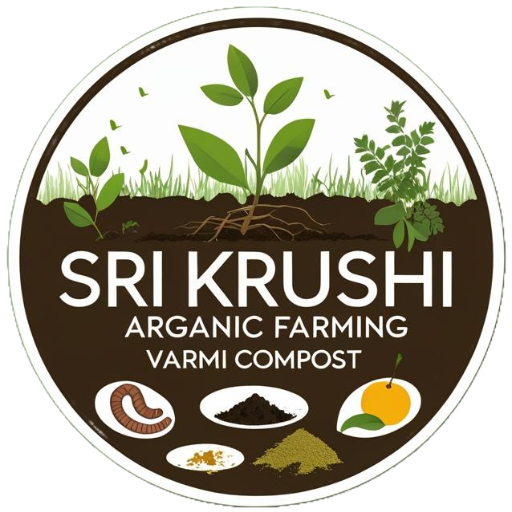
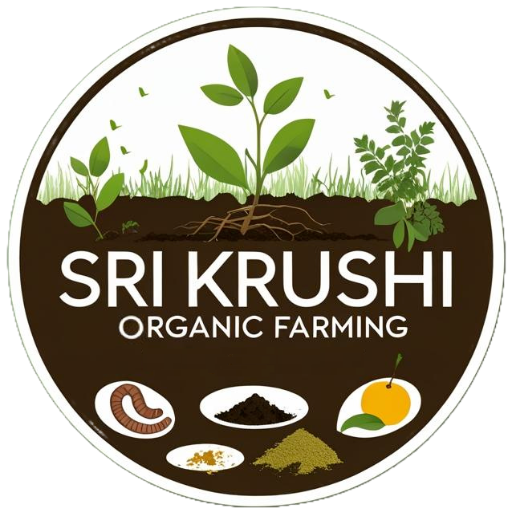
feat!: Refactor spelling and name

Changed region(s): [[0.2812, 0.6562, 0.7188, 0.7188], [0.2188, 0.5938, 0.2812, 0.6875]]

diff --git a/src/Blog.tsx b/src/Blog.tsx
@@ -23,7 +23,7 @@ const blogArticles = [
     "title": "Journey from TSRTC Union Leader to Organic Farming Pioneer: Ch. Pichaiah’s Story",
     image: grandFatherWalking,
     alt: 'Grandfather walking',
-    "content": "Ch. Pichaiah is a retired former secretary of the RTC Employees Union and TSRTC (Telangana State Road Transport Corporation) employee. Originally from Agaram village in Telangana, India. He dedicated over 30 years as a bus driver before returning to his agricultural roots.\n\nWith over 40 years of experience in organic farming, Pichaiah is the founder of Sri Krushi Arganic Varmi Compost. His passion for sustainable agriculture and deep knowledge of organic practices have been key to the venture’s success.\n\nHe is actively involved in all aspects of the business from managing orders and delivering products to addressing customer queries. Committed to quality and community.\n\nHe is also focused on promoting organic farming and educating young farmers and consumers about its long-term benefits."
+    "content": "Ch. Pichaiah is a retired former secretary of the RTC Employees Union and TSRTC (Telangana State Road Transport Corporation) employee. Originally from Agraharam village in Telangana, India. He dedicated over 30 years as a bus driver before returning to his agricultural roots.\n\nWith over 40 years of experience in organic farming, Pichaiah is the founder of Sri Krushi Organic Farming. His passion for sustainable agriculture and deep knowledge of organic practices have been key to the venture’s success.\n\nHe is actively involved in all aspects of the business from managing orders and delivering products to addressing customer queries. Committed to quality and community.\n\nHe is also focused on promoting organic farming and educating young farmers and consumers about its long-term benefits."
   },
   {
     "id": 2,
@@ -98,7 +98,7 @@ export default function Blog() {
     <div>
       <h2>Blog</h2>
       <p>
-        Stay tuned for articles and updates on organic farming, Varmi Composting, and more!
+        Stay tuned for articles and updates on organic farming, and more!
       </p>
       <div>
         {blogArticles.map((article) => (

diff --git a/src/About.tsx b/src/About.tsx
@@ -10,7 +10,7 @@ export default function About() {
         Since our establishment in 2005, we have been committed to becoming one of the most familiar and trustworthy names in the industry. To achieve this, we ensure that all our manufacturing activities are carried out efficiently and ethically.
       </p>
       <p>
-        We specialize in producing high-quality Neem Powder and Natural Varmi Compost. Additionally, our company takes pride in providing fast and reliable shipment of orders through our well-organized logistics network.
+        We specialize in producing high-quality Neem Powder and Natural Vermicompost. Additionally, our company takes pride in providing fast and reliable shipment of orders through our well-organized logistics network.
       </p>
       <img src={founderGrandFather} alt="About Us Image" style={{ width: '85%', height: 'auto', display: 'block', margin: '0 auto', borderRadius: '5%' }} />
       <p>

diff --git a/src/App.tsx b/src/App.tsx
@@ -69,7 +69,7 @@ function Products() {
   return (
     <>
       <img src={logo} alt="Sri Krushi Organic Farming Logo" className="logo" />
-      <h1>Sri Krushi Arganic Farming Varmi Compost</h1>
+      <h1>Sri Krushi Organic Farming</h1>
       <p>
         We are dedicated to sustainable agriculture and organic farming practices since 2005. We provide high-quality organic products and promote eco-friendly farming methods.
       </p>
@@ -150,7 +150,7 @@ function App() {
         <footer className="footer">
           <div className="footer-content">
             <div className="footer-title">
-              &copy; {new Date().getFullYear()} SRI KRUSHI ARGANIC FARMING VARMI COMPOST
+              &copy; {new Date().getFullYear()} SRI KRUSHI ORGANIC FARMING
             </div>
             <div className="footer-links">
               <Link to="/privacy-policy">Privacy Policy</Link>

diff --git a/src/Cart.tsx b/src/Cart.tsx
@@ -11,7 +11,7 @@ type CartItem = {
 
 function getCartMessage(cart: CartItem[], name: string, phone: string) {
   let message =
-    'Order for Sri Krushi Arganic Farming Varmi Compost:\n\n' +
+    'Order for Sri Krushi Organic Farming:\n\n' +
     cart
       .map(
         (item, idx) =>
@@ -33,7 +33,7 @@ export default function Cart() {
   const [showError, setShowError] = useState(false);
 
   const cartMessage = getCartMessage(cart as CartItem[], name, phone);
-  const emailSubject = encodeURIComponent('Order from Sri Krushi Arganic Farming Varmi Compost');
+  const emailSubject = encodeURIComponent('Order from Sri Krushi Organic Farming');
   const emailBody = encodeURIComponent(cartMessage);
   const whatsappBody = encodeURIComponent(cartMessage);
 

diff --git a/index.html b/index.html
@@ -8,7 +8,7 @@
     <link rel="icon" type="image/png" sizes="16x16" href="/favicon-16x16.png" />
     <link rel="manifest" href="/site.webmanifest" />
     <link rel="icon" href="/favicon.ico" />
-    <title>Sri Krushi Arganic Farming Varmi Compost</title>
+    <title>Sri Krushi Organic Farming</title>
   </head>
   <body>
     <div id="root"></div>

diff --git a/src/App.test.tsx b/src/App.test.tsx
@@ -21,7 +21,7 @@ describe('App Component', () => {
     render(<App />);
     const year = new Date().getFullYear();
     expect(
-      screen.getByText(new RegExp(`© ${year} SRI KRUSHI ARGANIC FARMING VARMI COMPOST`, 'i'))
+      screen.getByText(new RegExp(`© ${year} SRI KRUSHI ORGANIC FARMING`, 'i'))
     ).toBeInTheDocument();
   });
 });

diff --git a/src/News.tsx b/src/News.tsx
@@ -35,7 +35,7 @@ export default function News() {
     <div>
       <h2>News</h2>
       <p>
-        Latest news and announcements from Sri Krushi Arganic Farming Varmi Compost.
+        Latest news and announcements from Sri Krushi Organic Farming.
       </p>
       <div>
         {newsArticles.map((article) => (

diff --git a/src/Contact.tsx b/src/Contact.tsx
@@ -37,7 +37,7 @@ export default function Contact() {
       </section>
       <h3>Reach Us</h3>
       <address>
-        <strong>Sri Krushi Arganic Farming Varmi Compost</strong>
+        <strong>Sri Krushi Organic Farming</strong>
         <br />
         01, BALEMLA,
         <br />

diff --git a/README.md b/README.md
@@ -1,11 +1,11 @@
-# Sri Krushi Arganic Farming Varmi Compost Website
+# Sri Krushi Organic Farming Website
 
-Welcome to the official website repository for **Sri Krushi Arganic Farming Varmi Compost**.
+Welcome to the official website repository for **Sri Krushi Organic Farming**.
 
-We promote sustainable organic farming techniques and Varmi Composting to help cultivate healthier soils and crops. Our goal is to educate and empower farmers and gardeners to adopt eco-friendly practices.
+We promote sustainable organic farming techniques and ing to help cultivate healthier soils and crops. Our goal is to educate and empower farmers and gardeners to adopt eco-friendly practices.
 
 ## Features
 
-- Information on organic farming and Varmi Composting
+- Information on organic farming and Vermicomposting
 - Resources and guides for sustainable agriculture
 - Community initiatives and educational materials
